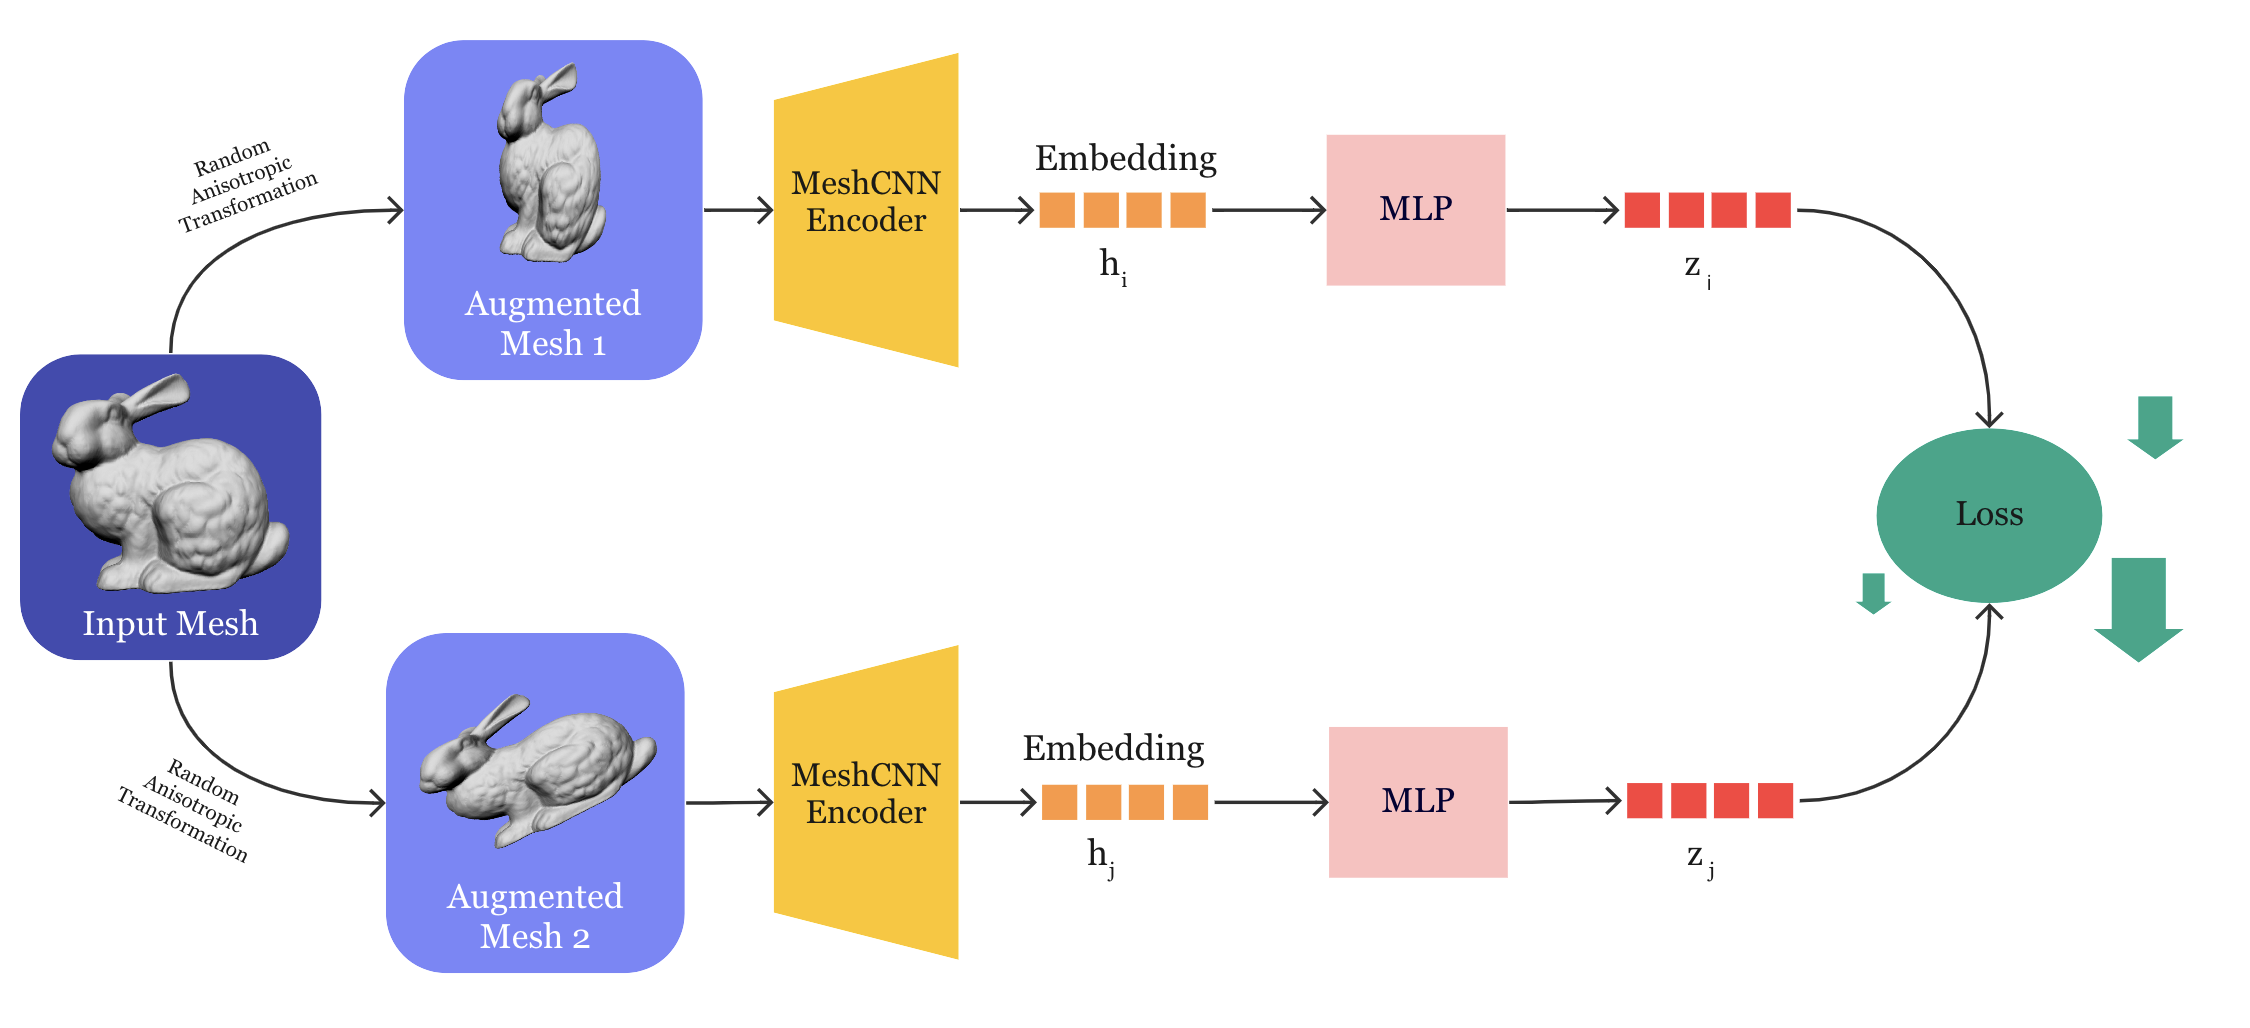
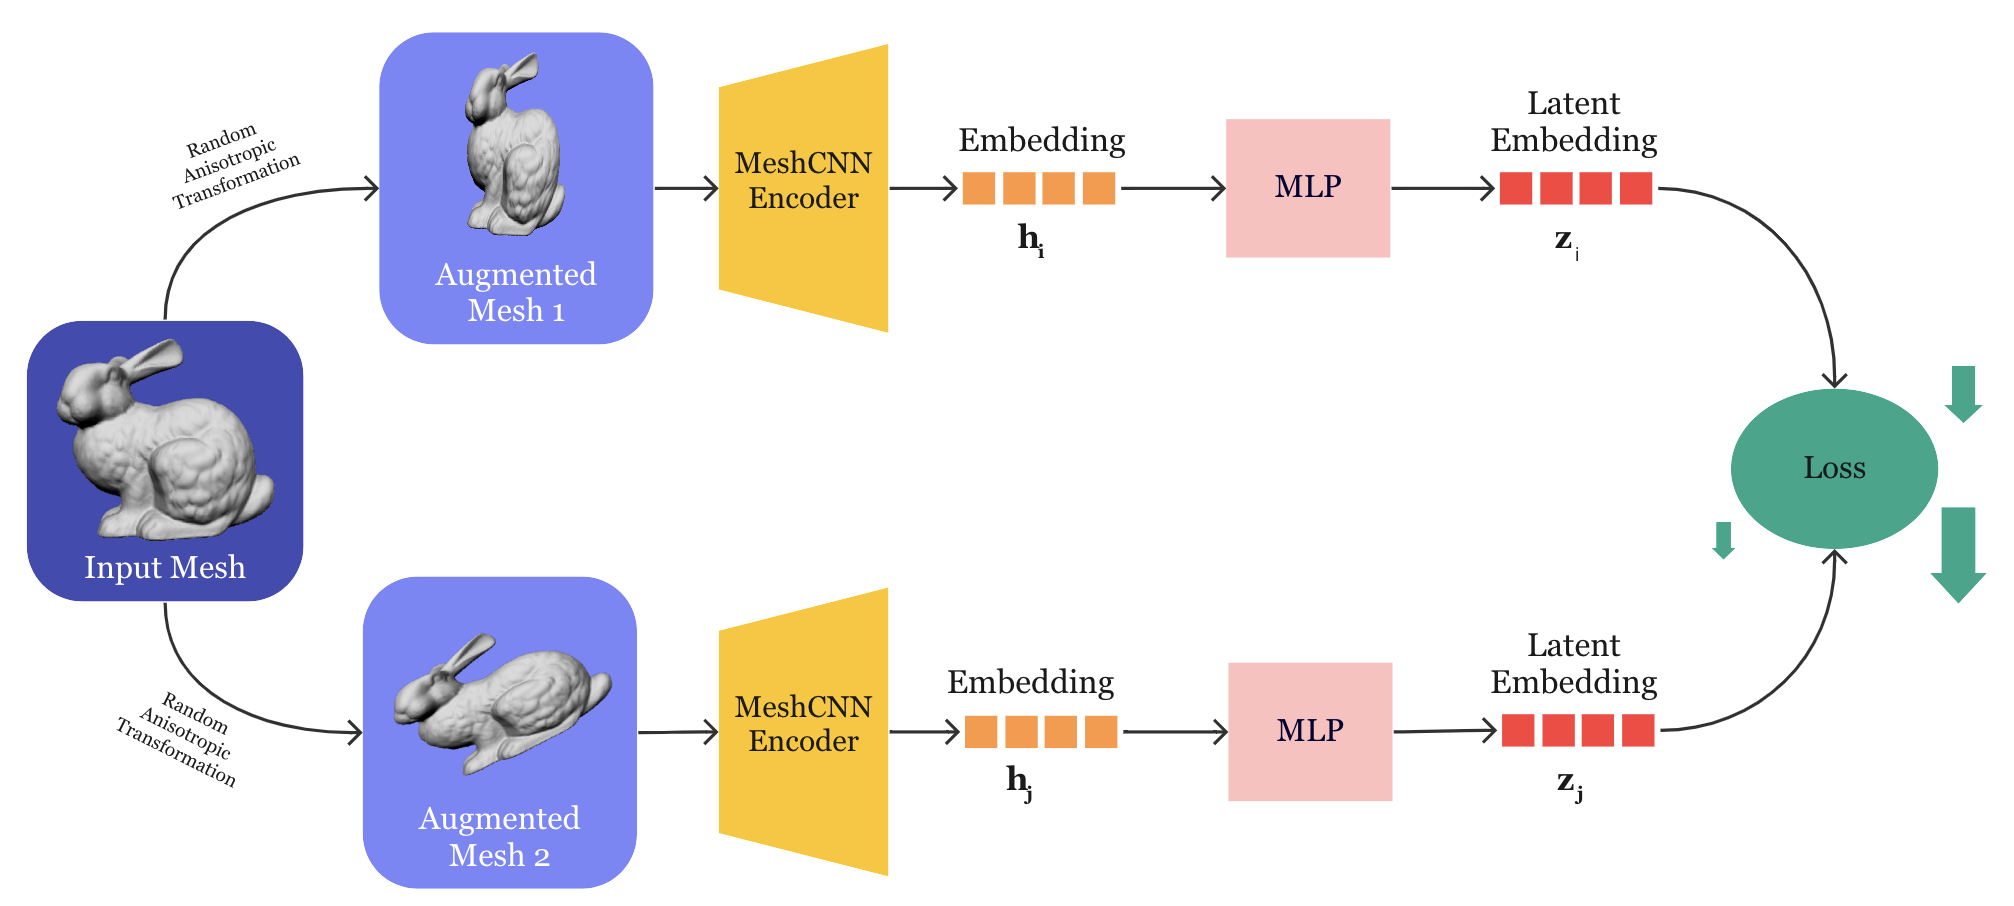
media

diff --git a/README.md b/README.md
@@ -1,9 +1,13 @@
-# Representation Learning of Meshes Based on SIMCLR Method
+# Contrastive Representation Learning of Meshes Based on SimCLR Method
 
-In this project, I explore the contrastive learning method proposed by Chen et al. in [A Simple Framework for Contrastive Learning of Visual Representations](https://arxiv.org/abs/2002.05709) using the existing [MeshCNN](https://arxiv.org/abs/1809.05910) framework, a general-purpose deep neural network for deep learning on meshes.
+In this project, I explore the contrastive learning method proposed by Chen et al. in [SimCLR: A Simple Framework for Contrastive Learning of Visual Representations](https://arxiv.org/abs/2002.05709) using the existing [MeshCNN](https://arxiv.org/abs/1809.05910) framework, a general-purpose deep neural network for deep learning on meshes.
 
 This repository is adapted from the [MeshCNN codebase](https://github.com/ranahanocka/MeshCNN). 
 
+## Network Breakdown
+
+<img src="/docs/imgs/arch_positive.png" width="600px"/> 
+<img src="/docs/imgs/arch_negative.png" width="600px"/> 
 
 ## Getting Started
 
@@ -20,7 +24,7 @@ conda activate contrastive_meshes
 
 ## Usage
 
-The experiments so far are mainly conducted on the [`shrec16`](http://shapenet.cs.stanford.edu/shrec16/) dataset for classification tasks. To download the dataset, run:
+The experiments so far are mainly conducted on the [`shrec`](http://shapenet.cs.stanford.edu/shrec16/) dataset for classification tasks. To download the dataset, run:
 ```
 bash scripts/shrec/get_data.sh
 ```
@@ -44,7 +48,7 @@ You can check the sample plots here for reference and comparison:
 
 Here is an example of the training loss plot:
 
-<img src="/docs/imgs/training_loss.png" width="450px"/> 
+<img src="/docs/imgs/loss_plot.png" width="600px"/> 
 
 To run test on the latest updated network, run: 
 ```
@@ -56,14 +60,18 @@ To view the [T-SNE](https://en.wikipedia.org/wiki/T-distributed_stochastic_neigh
 ```
 bash scripts/shrec/tsne.sh
 ```
-Here is an example of the visualization on the entire dataset consisted of 600 meshes in shrec16, using both the train and test meshes. Each class consists of 12 meshes (8 in train set and 4 in test set), with a total of 30 classes. 
+Here is an example of the visualization on the entire dataset consisted of 600 meshes in shrec, using both the train and test meshes. Each class consists of 20 meshes, with a total of 30 classes. 
 
-<img src="/docs/imgs/tsne_train_last_layer_2.png" width="500px"/> 
-
-## Configuration
+<img src="/docs/imgs/tsne_all.png" width="500px"/> 
 
 
 ## Evaluation
+
+### Linear Evaluation Protocol
+
+Since representation learning does not aim for particular tasks, there is no direct plug-and-use evaluation metric for our contrastive pre-training task. Hence the **linear evaluation protocol** is designed and widely applied as a means to evaluate the quality of the learned representations. 
+
+In the evaluation, a linear classifier is trained on top of the frozen base network; the test accuracy of this trailing linear classifier will be treated as a proxy of the quality of pre-trained representations.
 
 ### Preliminary Evaluation
 
@@ -74,12 +82,7 @@ To preliminarily get a direct sense of network performance, I define the followi
 > 1. Given a representation, find its nearest neighbor in feature space (that is, before the nonlinear projection head in the SimCLR architecture);
 > 2. Check whether the nearest neighbor belongs to the same class with the original representation. If it does, then we have an instance that is analogous to the "correct label" in the case of traditional classification tasks.
 
-Count all the instances where the representation is "correctly labeled" and obtain a global accuracy.
-
-
-### Classification
-
-Compute the global accuracy of classification task performed based on the representations obtained with the SimCLR representation learning. 
+Count all the instances where the representation is "correctly labeled" and obtain a global accuracy. 
 
 ### Clustering
 
